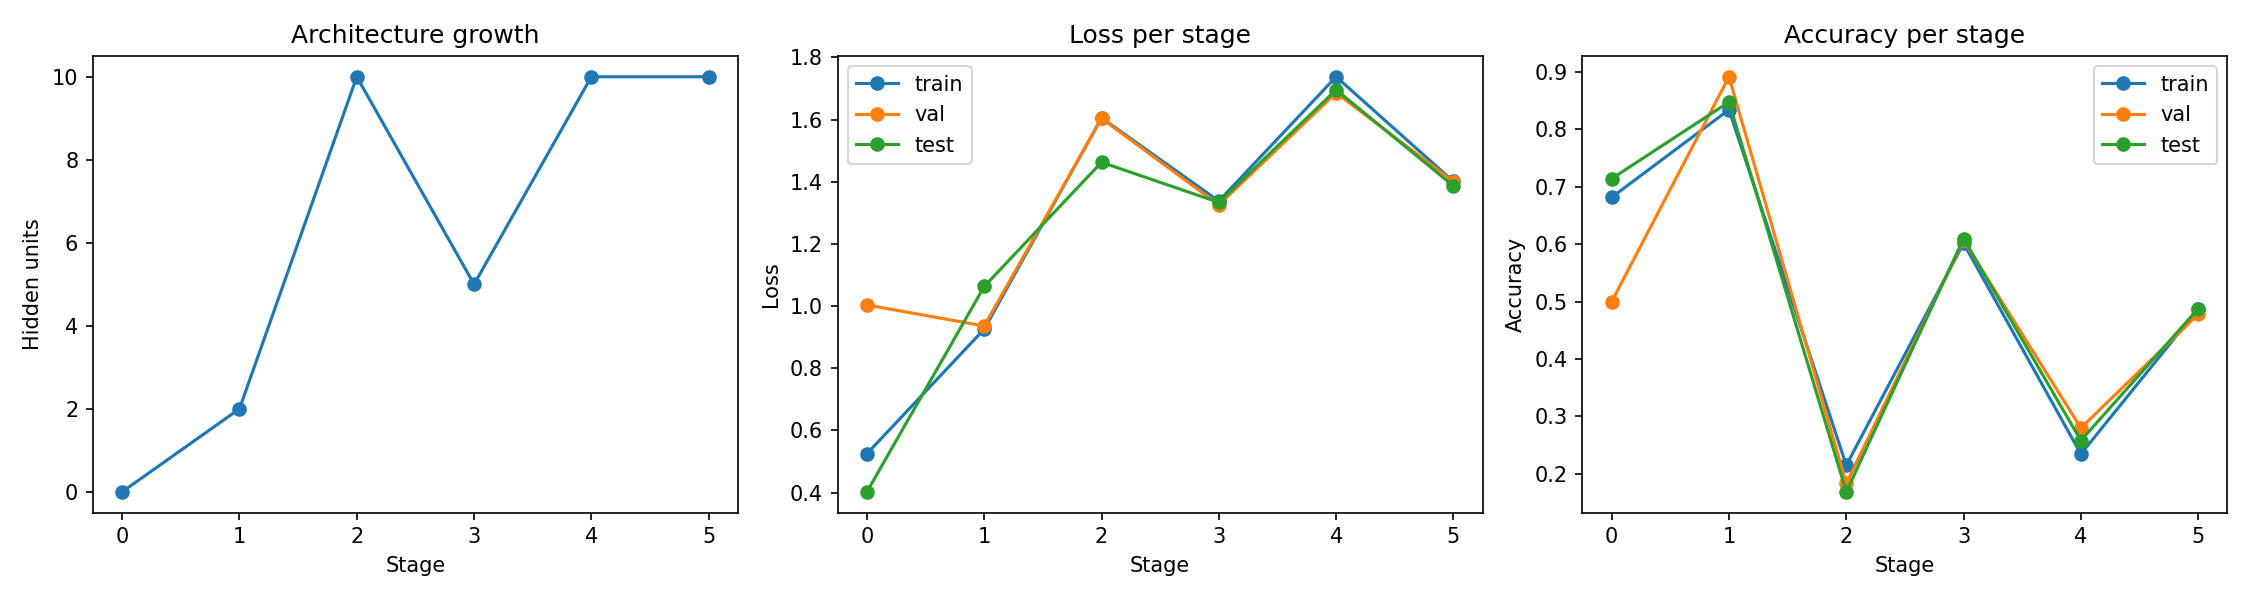
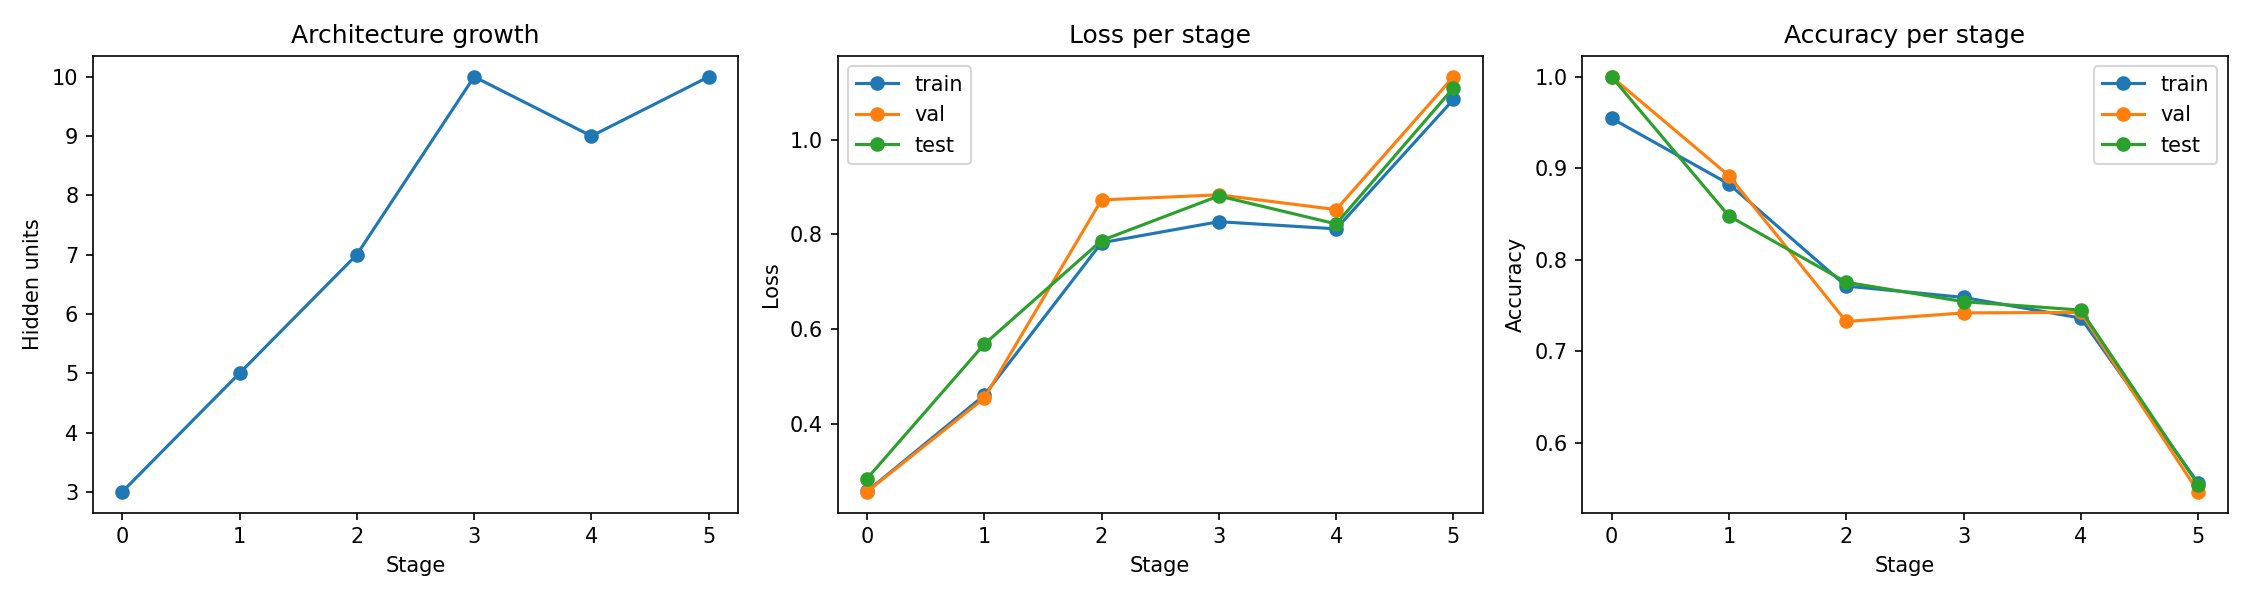
results obtained, figures saved, model building done

diff --git a/assignment3/neural_networks_main.py b/assignment3/neural_networks_main.py
@@ -9,11 +9,15 @@ from scipy.stats import skew as calculate_skew
 from sklearn.preprocessing import RobustScaler, LabelEncoder
 from sklearn.model_selection import train_test_split
 from sklearn.model_selection import train_test_split
+from sklearn.metrics import classification_report, f1_score
+from sklearn.utils.class_weight import compute_class_weight
 
 import tensorflow as tf
 from tensorflow.keras.models import Sequential
 from tensorflow.keras import layers
 from tensorflow.keras.layers import SimpleRNN
+
+
 
 tf.random.set_seed(42)
 np.random.seed(42)
@@ -91,13 +95,12 @@ print(outlier_table)
 
 #%% model variables : --------------------------------------------------------------------------------------------------------------------------------------------
 
-EPOCHS = 10            # per incremental stage
+EPOCHS = 50
 BATCH = 256
 REPLAY_PER_CLASS = 500  # exemplars kept per old class (0 = plain fine-tuning)
  
 # Class-incremental schedule: which transaction_qty values are introduced at each stage.
 # (Classes 4, 6, 8 have only 23, 3 and 10 rows in total, so they are grouped into one stage.)
-
 
 #%% modeling functions : ---------------------------------------------------------------------------------------------------------------------------------
 
@@ -113,7 +116,6 @@ def train_test(data):
     X_train = X_train.copy()
     X_test = X_test.copy()
     return X_train, X_test, y_train, y_test
-
 
 def get_class_order(y):
     labels, counts = np.unique(y, return_counts=True)
@@ -139,8 +141,6 @@ def data_for_stage(X, y, stage, class_order, n_initial, cumulative=True):
     return X[mask], y[mask], classes
 
 def remap_labels(y, seen_classes):
-    """Map raw class values (e.g. quality scores) to 0..len(seen_classes)-1,
-    in the order given by seen_classes."""
     class_to_idx = {c: i for i, c in enumerate(seen_classes)}
     return np.array([class_to_idx[v] for v in y])
 
@@ -155,33 +155,51 @@ def build_model(n_hidden_units, n_output_classes, n_features):
                   metrics=['sparse_categorical_accuracy'])
     return model
 
-
-def diagnose_fit(history):
+def diagnose_fit(model, X_val, y_val, history):
     train_acc = history.history['sparse_categorical_accuracy'][-1]
     val_acc = history.history['val_sparse_categorical_accuracy'][-1]
     gap = train_acc - val_acc
-    if train_acc < 0.65:   
-        print(f"Training accuracy is low: {train_acc:.4f}. Model is underfitting.")       
+
+    val_pred = np.argmax(model.predict(X_val, verbose=0), axis=1)
+    macro_f1 = f1_score(y_val, val_pred, average='macro', zero_division=0)
+
+    if macro_f1 < 0.5:
+        print(f"Model is underfitting, macro-F1 score of {macro_f1:.4f}")
         return "underfit"
-    elif gap > 0.15:    
-        print(f"Validation accuracy is significantly lower than training accuracy: gap={gap:.4f}. Model is overfitting.")        
+    elif gap > 0.15:
+        print(f"Model is overfitting, gap of {gap:.4f}")
         return "overfit"
     else:
-        print(f"Training accuracy: {train_acc:.4f}, Validation accuracy: {val_acc:.4f}. Model fit is acceptable.")
+        print(f"Model is acceptable, macro-F1 score of {macro_f1:.4f} and gap of {gap:.4f}")
         return "acceptable"
 
+def train_until_ready(X, y, seen_classes, n_features, batch, max_hidden=10):
+    X_tr, X_val, y_tr, y_val = train_test_split(X, y, test_size=0.2, stratify=y, random_state=42)
 
-def train_until_ready(X, y, seen_classes, n_features, max_hidden=10, epochs=10):
-
+    best = None  # (macro_f1, n_hidden, model, history)
     n_hidden = 0
     while True:
         model = build_model(n_hidden, len(seen_classes), n_features)
-        history = model.fit(X, y, epochs=epochs, batch_size=BATCH,
-                             validation_split=0.2, verbose=0)
-        status = diagnose_fit(history)
-        print(f"hidden_units={n_hidden} -> {status}")
-        if status != "underfit" or n_hidden >= max_hidden:
-            return model, history, n_hidden
+        weights = compute_class_weight('balanced', classes=np.unique(y_tr), y=y_tr)
+        weights = np.sqrt(weights)  # dampens the most extreme weights
+        class_weight_dict = dict(zip(np.unique(y_tr), weights))
+
+        history = model.fit(X_tr, y_tr, epochs=EPOCHS, batch_size=batch,
+                             validation_data=(X_val, y_val), verbose=0)
+
+        val_pred = np.argmax(model.predict(X_val, verbose=0), axis=1)
+        macro_f1 = f1_score(y_val, val_pred, average='macro', zero_division=0)
+        train_acc = history.history['sparse_categorical_accuracy'][-1]
+        val_acc = history.history['val_sparse_categorical_accuracy'][-1]
+        gap = train_acc - val_acc
+
+        print(f"hidden_units={n_hidden} -> macro_f1={macro_f1:.4f}, gap={gap:.4f}")
+
+        if best is None or macro_f1 > best[0]:
+            best = (macro_f1, n_hidden, model, history)
+
+        if macro_f1 >= 0.5 or gap > 0.15 or n_hidden >= max_hidden:
+            return best[2], best[3], best[1]   # return the BEST model seen, not the last
         n_hidden += 1
 
 def get_loss(history1):
@@ -191,30 +209,62 @@ def get_loss(history1):
 
 # neural network implementation
 
-#%% model data initialization : --------------------------------------------------------------------------------------------------------------------------------------------
+# model data initialization : --------------------------------------------------------------------------------------------------------------------------------------------
+
+#%% model1 : -------------------------------------------------------------------------------------------------------------------------------------------------------------
 
 class_order = get_class_order(wine_data['quality'])
 X_train, X_test, y_train, y_test = train_test(wine_data)
 scaled_X_train, scaled_X_test = robust_scaler(X_train, X_test)
 
+seen = class_order 
+
+def baseline(X_train, y_train, X_test, y_test):
+    model = Sequential([
+        layers.Input(shape=(X_train.shape[1],)),
+        layers.Dense(30, activation='relu'),
+        layers.Dense(len(np.unique(y_train)), activation='softmax')
+    ])
+    model.compile(optimizer='adam',
+                  loss=tf.keras.losses.SparseCategoricalCrossentropy(),
+                  metrics=['sparse_categorical_accuracy'])
+    history = model.fit(X_train, y_train, epochs=EPOCHS, batch_size=BATCH,
+                        validation_split=0.2, verbose=0)
+    test_loss, test_acc = model.evaluate(X_test, y_test, verbose=0)
+    print(f"Baseline Test Loss: {test_loss:.4f}, Test Accuracy: {test_acc:.4f}")
+    return model, history
+
+all_classes = class_order   # every class, in the same rarity order used throughout
+y_s = remap_labels(y_train, all_classes).astype('int32')
+y_t = remap_labels(y_test, all_classes).astype('int32')
+baseline_model, baseline_history = baseline(scaled_X_train, y_s, scaled_X_test, y_t)
+
+
+#%% incremental learning : ---------------------------------------------------------------------------------------------------------------------------------------------------
 n_stages = len(class_order) -  1   
-# starting with two least frequent classes
 seen = class_order[:2]            
-models_by_stage = []         
+models_by_stage = []
 
 for i in range(2, len(class_order) + 1):
     stage = i - 2
-    X_s, y_s, classes = data_for_stage(X_train, y_train, stage=stage,
+    X_s, y_s, classes = data_for_stage(scaled_X_train, y_train, stage=stage,
                                         class_order=class_order, n_initial=2, cumulative=True)
+    batch_size_for_stage = min(BATCH, max(8, len(X_s) // 4))
+    X_s, y_s, classes = data_for_stage(scaled_X_train, y_train, stage=stage,
+                                        class_order=class_order, n_initial=2, cumulative=True)
+    batch_size_for_stage = min(BATCH, max(8, len(X_s) // 4))
     y_s = remap_labels(y_s, classes).astype('int32')
-
-    X_t, y_t, _ = data_for_stage(X_test, y_test, stage=stage,
+    X_t, y_t, _ = data_for_stage(scaled_X_test, y_test, stage=stage,
                                   class_order=class_order, n_initial=2, cumulative=True)
     y_t = remap_labels(y_t, classes).astype('int32')
 
-    model, history, n_hidden = train_until_ready(X_s, y_s, classes, n_features=X_train.shape[1])
+    model, history, n_hidden = train_until_ready(X_s, y_s, classes, n_features=scaled_X_train.shape[1], batch=batch_size_for_stage)
 
     test_loss, test_acc = model.evaluate(X_t, y_t, verbose=0)
+
+    pred_idx = np.argmax(model.predict(X_t, verbose=0), axis=1)
+    macro_f1 = f1_score(y_t, pred_idx, average='macro')
+    print(classification_report(y_t, pred_idx, zero_division=0))
 
     models_by_stage.append({
         "stage": stage,
@@ -231,7 +281,7 @@ for i in range(2, len(class_order) + 1):
         "X_t": X_t,
         "y_t": y_t,
     })
-#%% first model : ---------------------------------------------------------------------------------------------------------------------------------------------------
+#%% model summary : ---------------------------------------------------------------------------------------------------------------------------------------------------
 
 summary = pd.DataFrame([{
     "stage": r["stage"],
@@ -247,7 +297,8 @@ summary = pd.DataFrame([{
 } for r in models_by_stage])
 
 print(summary.to_string(index=False))
-# %%
+
+# %% findings : ---------------------------------------------------------------------------------------------------------------------------------------------
 fig, axes = plt.subplots(1, 3, figsize=(15, 4))
 
 axes[0].plot(summary['stage'], summary['n_hidden'], marker='o')
